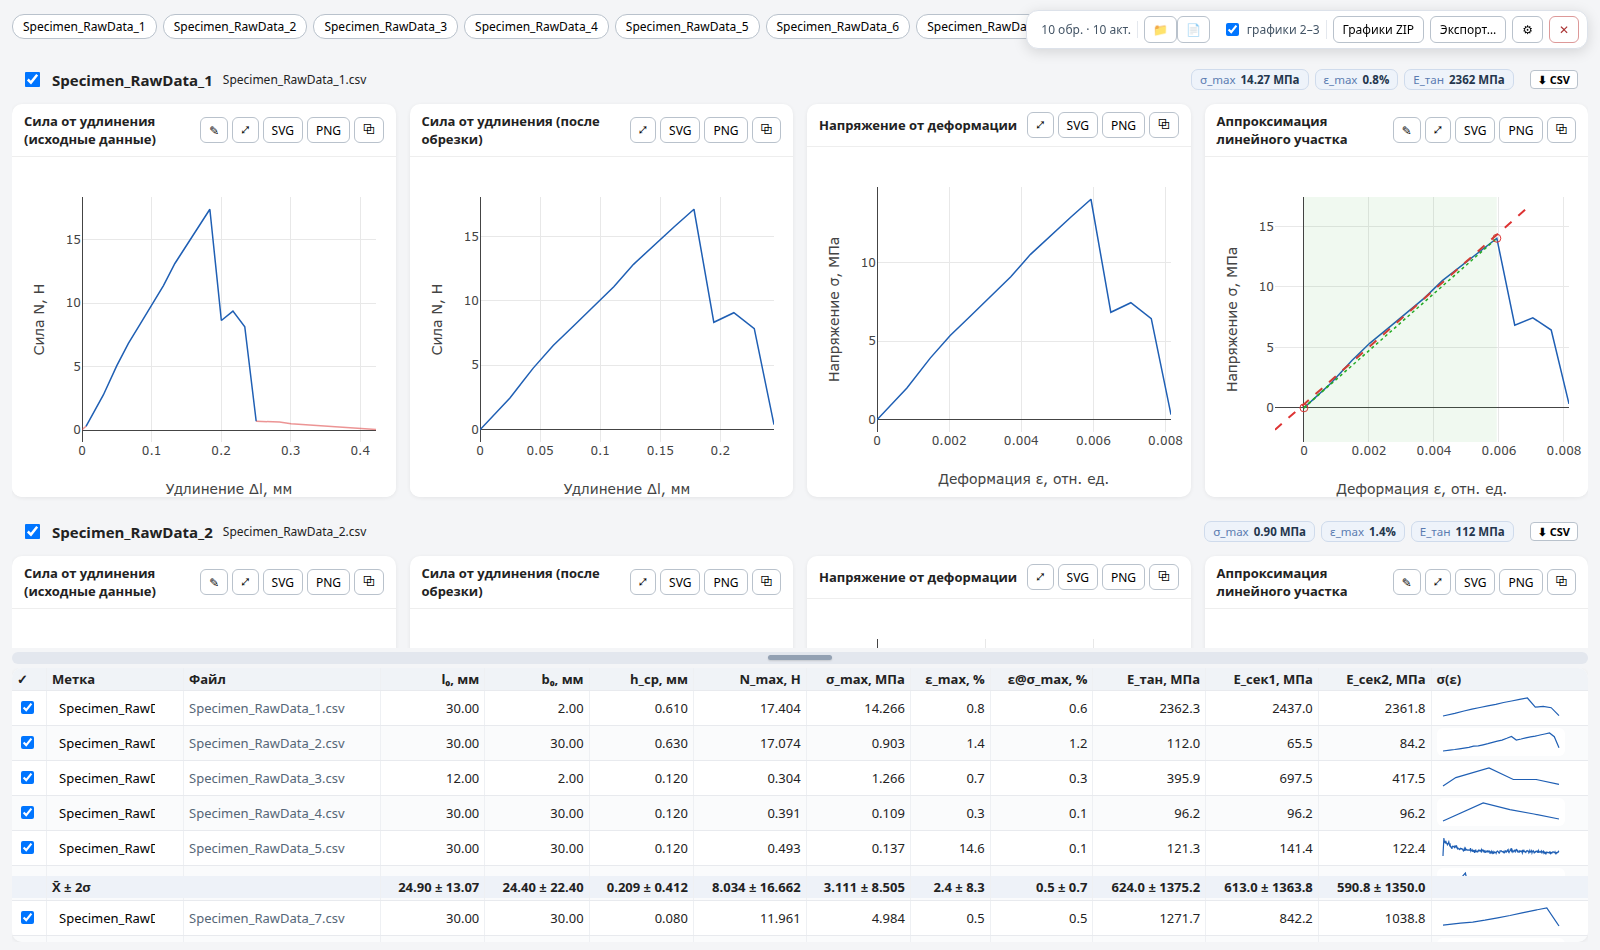
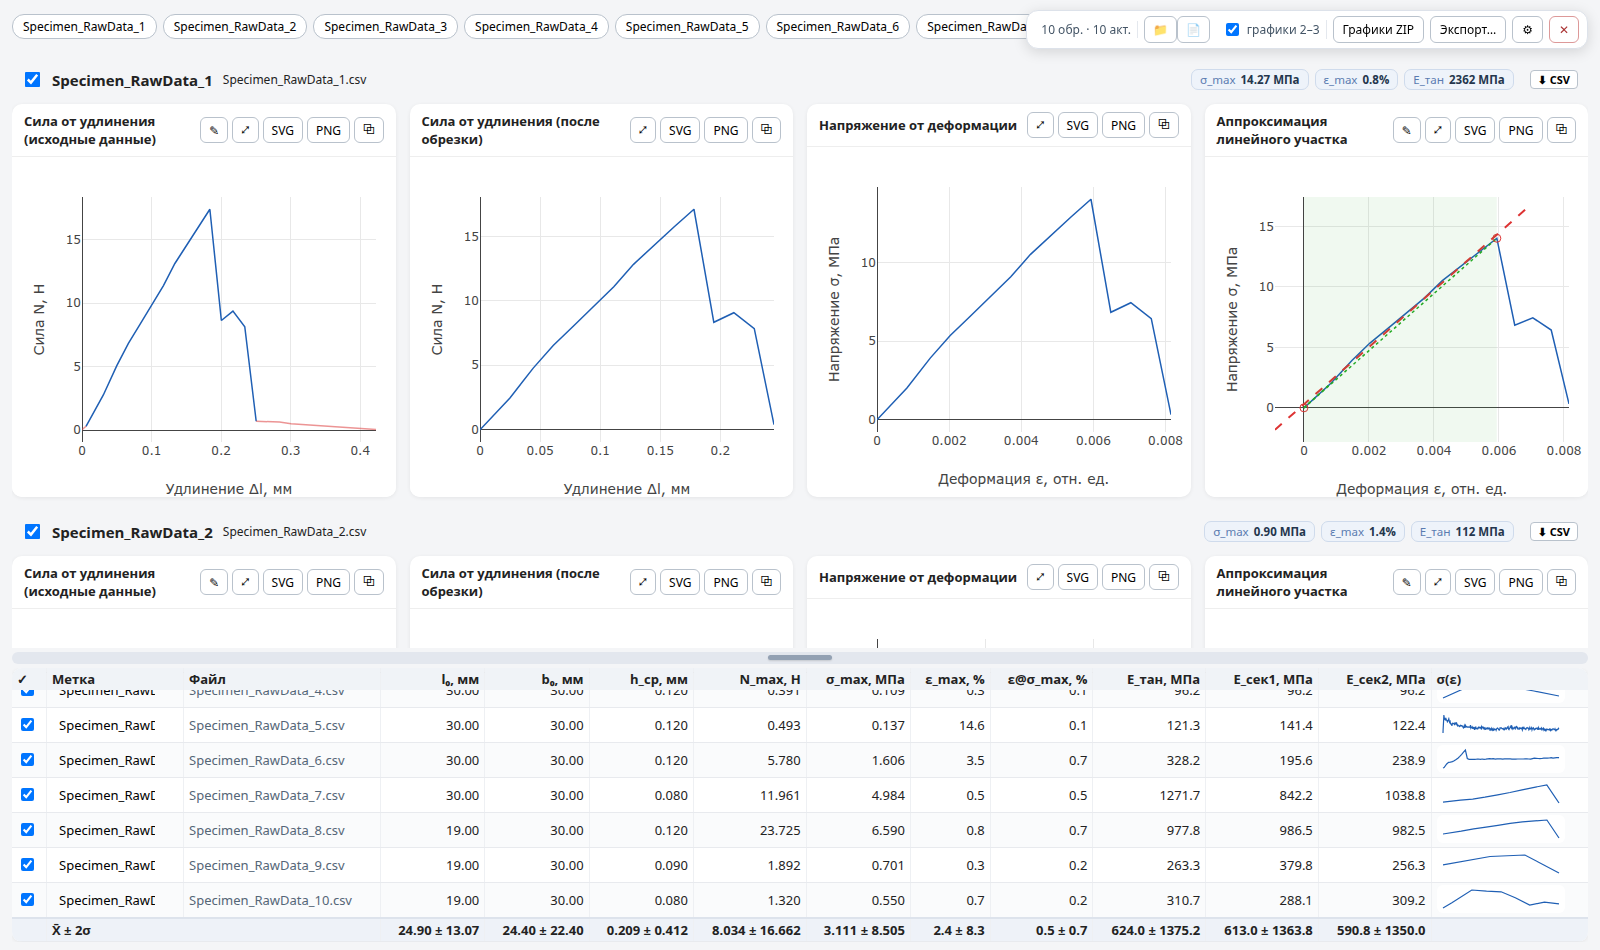
Fix: стат-строка таблицы прилипала к sticky-отступу 44px
tfoot использовал position:sticky с per-row отступами, рассчитанными
на три строки (Среднее/СКО/X̄±2σ). После удаления двух строк единственная
получила bottom:44px и «висела» в середине таблицы. Теперь bottom:0.
Скриншот 02-main переснят — видно X̄±2σ у нижней кромки.

diff --git a/app/src/styles.css b/app/src/styles.css
@@ -95,10 +95,7 @@ th.sortable { cursor: pointer; user-select: none; }
 th.sortable:hover { background: #e3eaf4; }
 tbody tr:nth-child(even) td { background: #fafbfc; }
 tbody tr:hover td { background: #f0f4fa; }
-tfoot td { position: sticky; background: #eef2f8 !important; border-top: 2px solid #dde3ec; padding-top: 2px; padding-bottom: 2px; }
-tfoot tr:nth-child(1) td { bottom: 44px; }
-tfoot tr:nth-child(2) td { bottom: 22px; }
-tfoot tr:nth-child(3) td { bottom: 0; }
+tfoot td { position: sticky; bottom: 0; background: #eef2f8 !important; border-top: 2px solid #dde3ec; padding-top: 2px; padding-bottom: 2px; }
 td.num { text-align: right; font-variant-numeric: tabular-nums; }
 td.fname { max-width: 200px; overflow: hidden; text-overflow: ellipsis; color: #567; }
 .label-input { width: 110px; font: inherit; padding: 2px 6px; border: 1px solid transparent; border-radius: 4px; background: transparent; }
